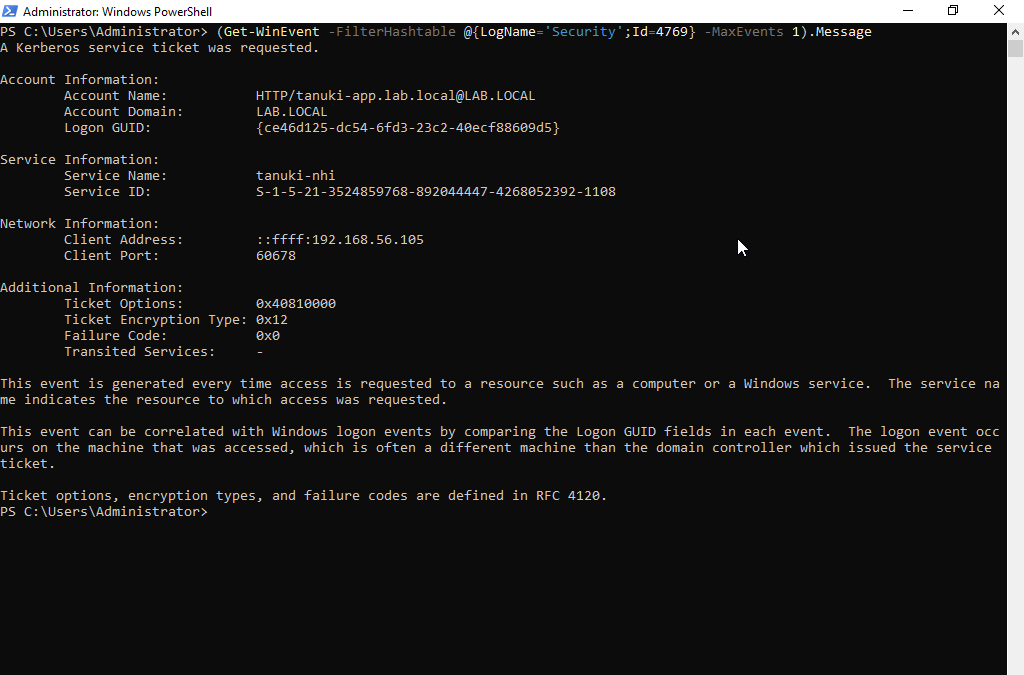
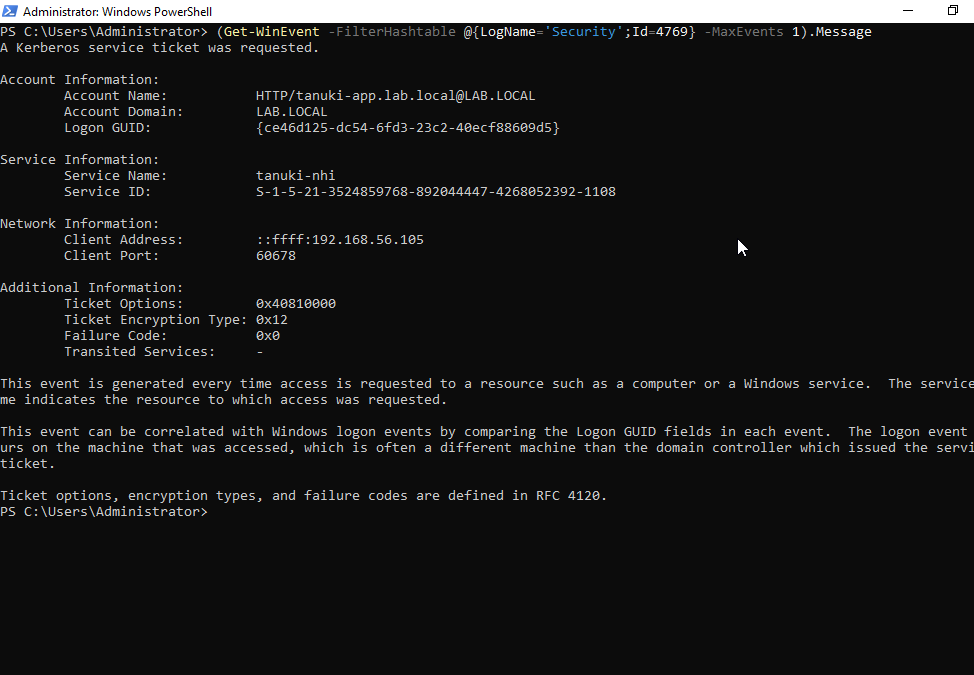
test(climax): add rust blast integration tests and exclude scrollbar from event 4769 snapshot

diff --git a/crates/tanuki-cli/tests/integration_tests.rs b/crates/tanuki-cli/tests/integration_tests.rs
@@ -1,10 +1,12 @@
 use tanuki::{
-    audit_enctype_kvno, build_ldap_bind_request, build_ldap_extensible_filter,
-    build_ldap_search_filter, candidates_to_json, entries_to_json, escape_json,
-    find_error_resolution, generate_krb5_conf, ladder_to_json, parse_keytab_bytes,
+    audit_enctype_kvno, blast_report_to_json, build_ldap_bind_request,
+    build_ldap_extensible_filter, build_ldap_search_filter, candidates_to_json,
+    classify_identity_tier, entries_to_json, escape_json, evaluate_blast_radius,
+    find_error_resolution, format_blast_report_terminal, generate_ad_remediations,
+    generate_krb5_conf, ladder_to_json, parse_keytab_bytes,
     parse_rbcd_security_descriptor, parse_windows_sid, save_candidates,
-    scan_for_ccache_blobs, KeytabError, LdapReport, LdapSearchEntry, DECISION_LADDER,
-    ERROR_DICTIONARY,
+    scan_for_ccache_blobs, BlastReport, KeytabError, LdapReport, LdapSearchEntry,
+    DECISION_LADDER, ERROR_DICTIONARY,
 };
 
 fn build_keytab_entry(
@@ -453,3 +455,69 @@ fn test_enctype_kvno_sync_diagnostics() {
 
     let _ = std::fs::remove_dir_all(&temp_dir);
 }
+
+#[test]
+fn test_blast_tier_classification_and_radius_rust() {
+    let t0 = classify_identity_tier("admin@LAB.LOCAL", None, None, &[512], &[], false, false);
+    assert_eq!(t0.tier, 0);
+    assert_eq!(t0.severity, "CRITICAL");
+    assert!(t0.is_critical);
+    assert!(t0.base_score >= 90);
+
+    let t1 = classify_identity_tier("svc@LAB.LOCAL", None, None, &[549], &[], false, false);
+    assert_eq!(t1.tier, 1);
+    assert_eq!(t1.severity, "HIGH");
+    assert!(!t1.is_critical);
+
+    let t2 = classify_identity_tier("user@LAB.LOCAL", None, Some(513), &[513], &[], false, false);
+    assert_eq!(t2.tier, 2);
+    assert_eq!(t2.severity, "LOW");
+    assert_eq!(t2.base_score, 20);
+
+    let (score, severity, paths) = evaluate_blast_radius(
+        &t1,
+        &["TRUSTED_FOR_DELEGATION".to_string()],
+        &["HTTP/tanuki-app.lab.local".to_string()],
+        1,
+    );
+    assert!(score >= 85);
+    assert_eq!(severity, "CRITICAL");
+    assert!(!paths.is_empty());
+}
+
+#[test]
+fn test_blast_remediations_and_json_parity_rust() {
+    let t1 = classify_identity_tier("tanuki-nhi@LAB.LOCAL", None, None, &[], &[], true, false);
+    let recipes = generate_ad_remediations(
+        "tanuki-nhi@LAB.LOCAL",
+        &t1,
+        &[],
+        1,
+        &["HTTP/tanuki-app.lab.local".to_string()],
+    );
+    assert!(!recipes.is_empty());
+    assert!(recipes.iter().any(|r| r.category == "ENCRYPTION_HARDENING" && r.powershell.contains("AES128,AES256")));
+    assert!(recipes.iter().any(|r| r.category == "DELEGATION_HARDENING" && r.powershell.contains("msDS-AllowedToActOnBehalfOfOtherIdentity")));
+
+    let report = BlastReport {
+        principal: "tanuki-nhi@LAB.LOCAL".to_string(),
+        user_sid: "S-1-5-21-1108".to_string(),
+        tier_info: t1,
+        blast_score: 70,
+        severity: "HIGH".to_string(),
+        delegation_flags: vec![],
+        accessible_spns: vec!["HTTP/tanuki-app.lab.local".to_string()],
+        lateral_paths: vec![],
+        remediation_recipes: recipes,
+    };
+
+    let json_text = blast_report_to_json(&report);
+    assert!(json_text.contains("\"operation\": \"BLAST_RADIUS_ANALYSIS\""));
+    assert!(json_text.contains("\"event_id\": 4769"));
+    assert!(json_text.contains("\"tier\": 1"));
+
+    let terminal_text = format_blast_report_terminal(&report);
+    assert!(terminal_text.contains("TANUKI PRIVILEGE TIERING & BLAST RADIUS ENGINE"));
+    assert!(!terminal_text.contains('\u{2014}'));
+}
+
